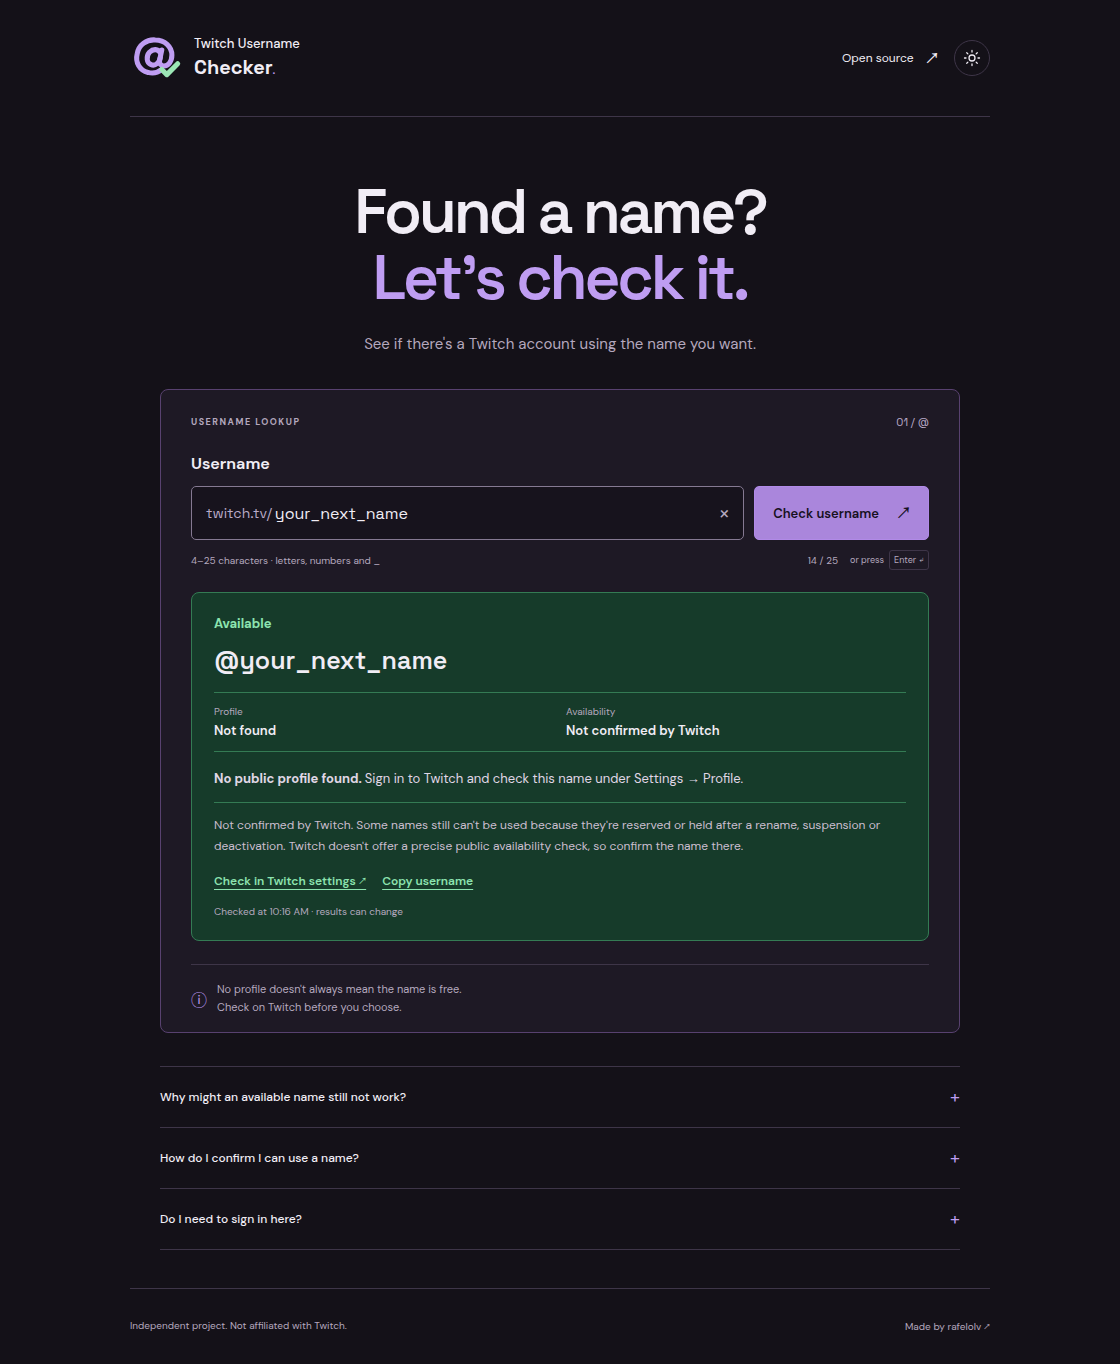
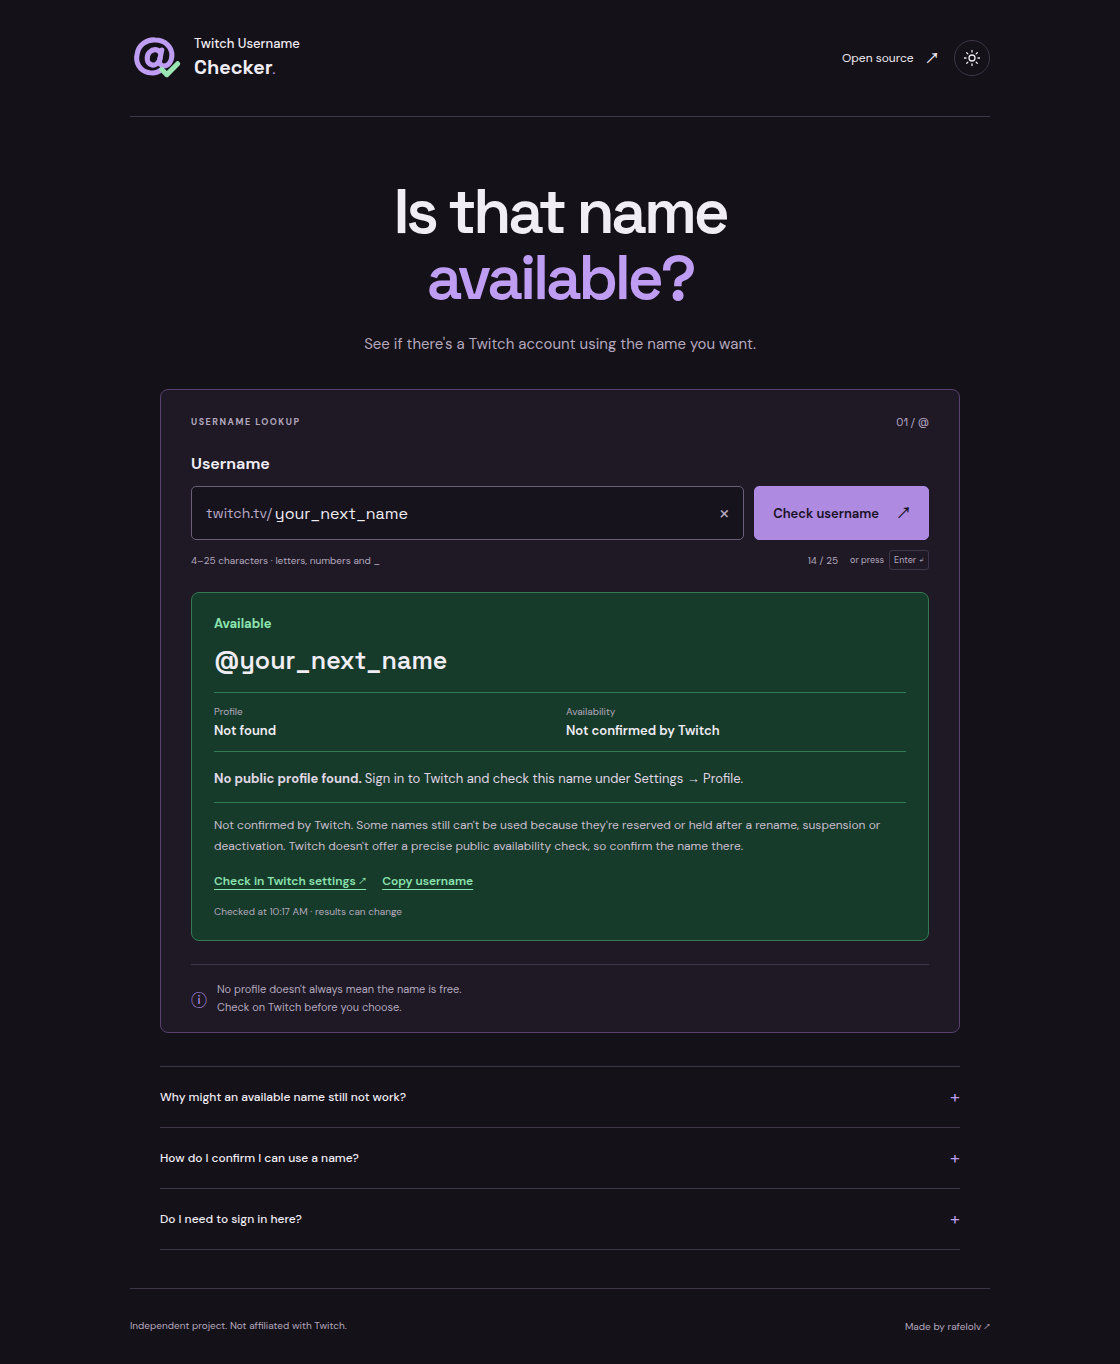
style: make the main heading more direct

Changed region(s): [[0.3125, 0.1232, 0.6875, 0.2463], [0.2812, 0.6466, 0.3438, 0.6774]]

diff --git a/index.html b/index.html
@@ -88,7 +88,7 @@
     </header>
     <main class="wrap">
       <section class="hero" aria-labelledby="hero-title">
-        <h1 id="hero-title">Found a name?<br /><span>Let's check it.</span></h1>
+        <h1 id="hero-title">Is that name<br /><span>available?</span></h1>
         <p class="intro">
           See if there's a Twitch account using the name you want.
         </p>

diff --git a/docs/VALIDATION.md b/docs/VALIDATION.md
@@ -266,3 +266,8 @@ Limitations:
   JS errors. Both README previews were refreshed and the dark capture inspected.
 - Included `theme.js` in the Pages copy list and release ZIP input list. No new
   live Twitch or account check was required for this UI change.
+
+## 1.2.1 heading copy — 2026-10-17
+
+- Changed the main heading to “Is that name available?”. Syntax/unit checks and
+  a local Chrome light/dark check at 320px passed; refreshed both README previews.

diff --git a/CHANGELOG.md b/CHANGELOG.md
@@ -3,6 +3,10 @@
 Versions follow three-part semver; `package.json` is the version source.
 Entries remain Unreleased until publication is verified.
 
+## 1.2.1
+
+- Replace the main heading with “Is that name available?” for a clearer introduction.
+
 ## 1.2.0
 
 - Add a header button to switch between light and dark themes and remember the choice.
